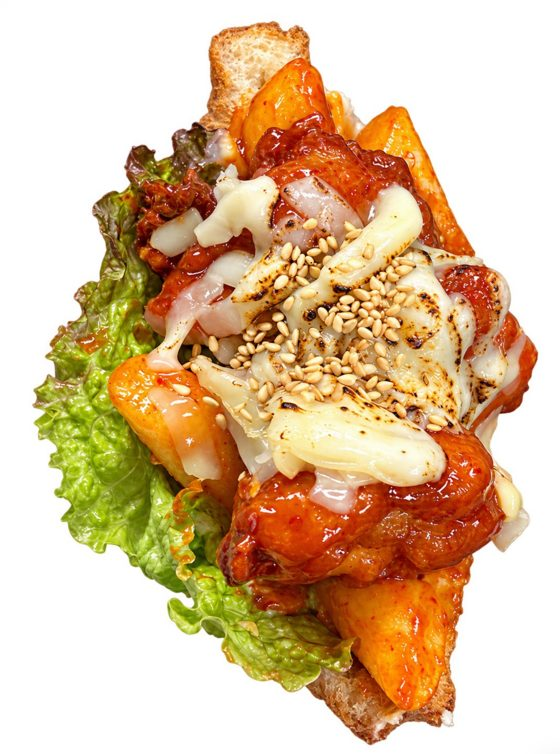
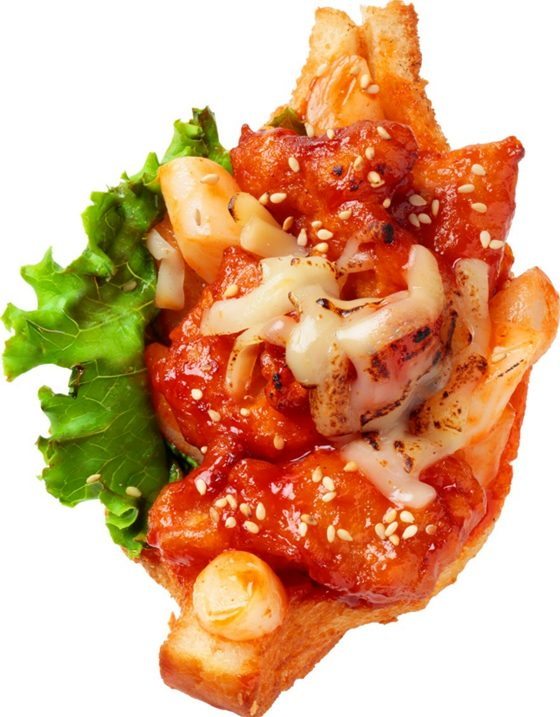
fix: ヤンニョムチキンのメイン写真を差し替え（写真バージョン更新）
Claude-Session: https://claude.ai/code/session_01Wp3vB6FRfwS6WS9ETNgW7z

diff --git a/age3-recipe-data.js b/age3-recipe-data.js
@@ -30,7 +30,7 @@
    ========================================================================== */
 
 var RECIPE_META = {
-  assetVersion: '20260822e',
+  assetVersion: '20261007a',
   brand: 'Age.3',
   title: 'Age.3 レシピ',
   sub: '揚げサンド スタンダードレシピ',
